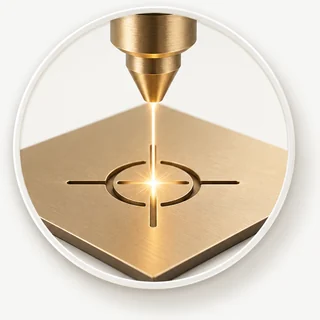
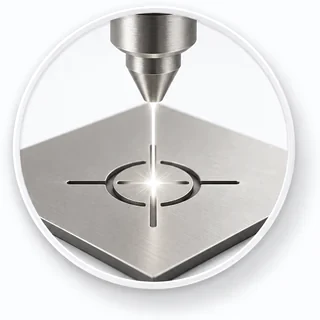
Shoshanas Rueckmeldung vom 26.08. eingearbeitet (6 Punkte)
1. Goldrahmen um das Set-Foto entfernt - er erweckte den falschen
   Eindruck eines gerahmten Bildes an der Wand. Das Foto steht jetzt
   schlicht, ohne Rahmen und ohne Schild.
2. Betreff der Sonderanfrage wieder wie von ihr vorgegeben:
   "בקשה להתאמה אישית – סדרת קרליבך" bzw. "Custom Order Inquiry –
   Rabbi Shlomo Carlebach Portrait Collection". Die Rueckfall-Zeile mit
   der sichtbaren Adresse unter den Knoepfen ist auf ihren Wunsch raus.
3. Prozessbild 5 (Farbgebung) um 90 Grad im Uhrzeigersinn gedreht.
4. Prozessschritt 4 zeigt jetzt ihr Laserbild statt des Platzhalter-
   Symbols; die Fussnote "לא תועד בזמן אמת" entfaellt damit.
5. Die beiden Icons, die das Material zeigen (Metallplatten, Laser),
   von Messing auf Aluminium umgefaerbt. Der Aufhaenger ist vorlaeufig
   ebenfalls entsaettigt - der dargestellte Typ passt weiterhin nicht zu
   ihrem Produkt, dafuer braucht es ein Foto von ihr.
6. Zeilenumbruch im Bestell-Band nach dem ersten Satz.

frameSheen zog mit an den Ort seiner Verwendung (Absende-Knopf), die
tote data-frame-Logik in ScrollFx ist entfernt.

diff --git a/lib/content.ts b/lib/content.ts
@@ -100,11 +100,6 @@ export interface LandingContent {
   customHref: string;
   /** Text des kleinen Sonderanfrage-Links unter den Kauf-Buttons */
   customLinkLabel: string;
-  /**
-   * Fallback fuer Besucher, bei denen kein Mailprogramm aufgeht: die
-   * Adresse steht sichtbar da und laesst sich abschreiben oder kopieren.
-   */
-  emailFallback: string;
   nav: {
     logoAlt: string;
     cta: string;
@@ -157,7 +152,7 @@ export interface LandingContent {
   /** Bestell-Band, erscheint zweimal: nach dem Prozess und nach "Ueber mich" */
   orderBand: {
     title: string;
-    text: string;
+    textLines: [string, string];
     cta: string;
     customCta: string;
   };
@@ -250,11 +245,10 @@ export const content: Record<Lang, LandingContent> = {
 אשמח לקבלת המשך פרטים לביצוע ההזמנה.`,
     ),
     customHref: mail(
-      "אהבתי את הדיוקן — מעוניינת לברר אפשרות להתאמה אישית",
+      "בקשה להתאמה אישית – סדרת קרליבך",
       "שלום שושנה,\n\nההתאמות שהייתי רוצה לבצע הן:\n\n",
     ),
     customLinkLabel: "מעוניינים בגודל אחר, בכמות או בהתאמה מיוחדת? פנו במייל לקבלת הצעת מחיר",
-    emailFallback: "לא נפתחה אצלכם תוכנת מייל? כתבו ישירות אל",
 
     nav: {
       logoAlt: "שושנה דרור | יודאיקה",
@@ -341,14 +335,17 @@ export const content: Record<Lang, LandingContent> = {
         { label: "צילום המקור", img: "/carlebach/process-1.webp", alt: "תצלום המקור" },
         { label: "עיצוב במחשב", img: "/carlebach/process-2.webp", alt: "עיצוב וקטורי במחשב" },
         { label: "תכנון החיתוך", img: "/carlebach/process-3.webp", alt: "תכנון נקודות החיתוך" },
-        { label: "חיתוך הלייזר", note: "* לא תועד בזמן אמת" },
+        { label: "חיתוך הלייזר", img: "/carlebach/process-4.webp", alt: "חיתוך לייזר של לוח מתכת" },
         { label: "צביעה", img: "/carlebach/process-5.webp", alt: "צביעת אבקה בתנור" },
         { label: "תלייה על הקיר", img: "/carlebach/process-6.webp", alt: "הדיוקן תלוי על הקיר" },
       ],
     },
     orderBand: {
       title: "הדיוקן שמתאים לחלל שלכם",
-      text: "בחרו את הדגם שמדבר אליכם, עם הפסוק או בלעדיו. למידה אחרת או להתאמה מיוחדת ניתן לפנות לקבלת הצעת מחיר.",
+      textLines: [
+        "בחרו את הדגם שמדבר אליכם, עם הפסוק או בלעדיו.",
+        "למידה אחרת או להתאמה מיוחדת ניתן לפנות לקבלת הצעת מחיר.",
+      ],
       cta: "לביצוע הזמנה",
       customCta: "בקשה להתאמה אישית",
     },
@@ -536,11 +533,10 @@ Shipping address / pickup:
 Please send me the next steps to complete the order.`,
     ),
     customHref: mail(
-      "I love the portrait — I'd like to explore a custom version",
+      "Custom Order Inquiry – Rabbi Shlomo Carlebach Portrait Collection",
       "Hello Shoshana,\n\nThe changes I have in mind are:\n\n",
     ),
     customLinkLabel: "Looking for another size or a custom variation? Tell me what you have in mind",
-    emailFallback: "Mail app didn't open? Write directly to",
 
     nav: {
       logoAlt: "Shoshana Dror | Judaica",
@@ -631,14 +627,17 @@ Please send me the next steps to complete the order.`,
         { label: "Source Photo", img: "/carlebach/process-1.webp", alt: "Source photograph" },
         { label: "Digital Design", img: "/carlebach/process-2.webp", alt: "Vector design on computer" },
         { label: "Cut Planning", img: "/carlebach/process-3.webp", alt: "Planning the cut points" },
-        { label: "Laser Cutting", note: "* Not documented in real time" },
+        { label: "Laser Cutting", img: "/carlebach/process-4.webp", alt: "Laser cutting a metal sheet" },
         { label: "Powder Coating", img: "/carlebach/process-5.webp", alt: "Oven-baked powder coating" },
         { label: "On the Wall", img: "/carlebach/process-6.webp", alt: "The portrait hanging on the wall" },
       ],
     },
     orderBand: {
       title: "Bring the Right Portrait into Your Space",
-      text: "Choose the design that speaks to you, with or without the verse. If you have another size or a custom version in mind, I would be glad to explore it with you.",
+      textLines: [
+        "Choose the design that speaks to you, with or without the verse.",
+        "If you have another size or a custom version in mind, I would be glad to explore it with you.",
+      ],
       cta: "Place an Order",
       customCta: "Ask About a Custom Version",
     },

diff --git a/app/globals.css b/app/globals.css
@@ -277,100 +277,9 @@ header.nav.scrolled { box-shadow: 0 12px 32px -20px rgba(46, 46, 46, 0.4); }
 .bundle-save { font-size: 0.82rem; color: #888; margin-bottom: 18px; }
 .buy-all { text-align: center; }
 
-/* ---------- Set-Foto als gerahmtes Bild ("Galerie-Moment") ----------
-   Das Foto bleibt jederzeit scharf und unbewegt; der Rahmen umschliesst
-   nur das Bild (.set-art), nicht das Schild darunter. Goldleiste mit
-   Gehrungsecken (conic-gradient) und Profilstufen, Passepartout mit
-   Falzlinie, Facette an der Bildoeffnung. Nach dem Aufbau laeuft alle
-   7 s ein feiner Lichtglanz ueber das Gold; ohne JavaScript ist der
-   fertige Rahmen sofort da. */
-.set-frame { max-width: 760px; margin: 26px auto 46px; text-align: center; }
-.set-art { position: relative; }
-.set-art::before {
-  content: "";
-  position: absolute;
-  inset: -28px;
-  z-index: 0;
-  border-radius: 2px;
-  background-image:
-    linear-gradient(115deg, rgba(255, 248, 228, 0) 44%, rgba(255, 248, 228, 0.5) 50%, rgba(255, 248, 228, 0) 56%),
-    conic-gradient(from 0deg,
-      #e8d7a2 0deg 56deg,
-      #b2975a 62deg 118deg,
-      #8f7740 124deg 236deg,
-      #cdb377 242deg 298deg,
-      #e8d7a2 304deg 360deg);
-  background-size: 260% 100%, 100% 100%;
-  background-position: 180% 0, 0 0;
-  background-repeat: no-repeat;
-  box-shadow:
-    0 46px 80px -38px rgba(46, 46, 46, 0.6),
-    0 18px 34px -24px rgba(46, 46, 46, 0.4),
-    inset 0 0 0 1px rgba(255, 255, 255, 0.5),
-    inset 0 0 0 2px rgba(112, 90, 42, 0.4),
-    inset 0 0 0 6px rgba(255, 255, 255, 0.16),
-    inset 0 0 0 7px rgba(112, 90, 42, 0.28);
-  transition: opacity 1.7s ease, transform 1.7s cubic-bezier(0.22, 1, 0.36, 1);
-}
-.set-art::after {
-  content: "";
-  position: absolute;
-  inset: -12px;
-  z-index: 0;
-  background: linear-gradient(180deg, #fbf9f4, #f5f2ea);
-  box-shadow:
-    0 0 0 1px rgba(90, 72, 30, 0.5),
-    inset 0 1px 4px rgba(46, 46, 46, 0.16),
-    inset 0 0 0 1px rgba(255, 255, 255, 0.6);
-  transition: opacity 1.7s ease;
-}
-.set-photo { position: relative; z-index: 1; aspect-ratio: 16 / 9; border-radius: 1px; }
-.set-photo::after {
-  content: "";
-  position: absolute;
-  inset: 0;
-  pointer-events: none;
-  box-shadow: inset 0 2px 8px rgba(46, 46, 46, 0.2), 0 0 0 1px rgba(90, 72, 30, 0.25);
-}
-.set-plaque {
-  display: inline-block;
-  margin-top: 52px;
-  padding: 9px 22px;
-  background: #fff;
-  border: 1px solid rgba(171, 145, 73, 0.45);
-  border-radius: 2px;
-  font-size: 0.82rem;
-  font-weight: 600;
-  letter-spacing: 0.6px;
-  color: #8a7238;
-  box-shadow: 0 10px 22px -14px rgba(46, 46, 46, 0.35);
-  transition: opacity 1s ease 0.6s, transform 1s cubic-bezier(0.22, 1, 0.36, 1) 0.6s;
-}
-.fx [data-frame]:not(.framed) .set-art::before { opacity: 0; transform: scale(1.012); }
-.fx [data-frame]:not(.framed) .set-art::after { opacity: 0; }
-.fx [data-frame]:not(.framed) .set-plaque { opacity: 0; transform: translateY(10px); }
-@keyframes frameSheen {
-  0% { background-position: 180% 0, 0 0; }
-  32% { background-position: -80% 0, 0 0; }
-  100% { background-position: -80% 0, 0 0; }
-}
-.fx [data-frame].framed .set-art::before { animation: frameSheen 7s ease-in-out 1.9s infinite; }
-@media (max-width: 600px) {
-  .set-art::before { inset: -16px; }
-  .set-art::after { inset: -7px; }
-  .set-plaque { margin-top: 34px; font-size: 0.76rem; padding: 8px 16px; }
-}
-.btn-wide {
-  display: inline-block;
-  background: var(--charcoal-deep);
-  color: #fff;
-  padding: 18px 52px;
-  border-radius: 2px;
-  font-weight: 600;
-  font-size: 1rem;
-  transition: background 0.45s ease;
-}
-.btn-wide:hover { background: var(--gold); }
+/* Set-Foto: schlicht, ohne Rahmen - der Rahmen erweckte den falschen
+   Eindruck eines gerahmten Bildes an der Wand (Rueckmeldung Shoshana). */
+.set-photo { max-width: 760px; margin: 0 auto 44px; aspect-ratio: 16 / 9; }
 
 /* ================= SCREEN 4 — PROCESS ================= */
 .process { padding: 110px 0; background: var(--charcoal-deep); color: #fff; text-align: center; }
@@ -780,14 +689,3 @@ footer { padding: 36px 0; background: var(--charcoal-deep); border-top: 1px soli
   .custom-order-link a { width: 100%; max-width: 330px; }
 }
 
-/* Sichtbare E-Mail-Adresse als Rueckfallebene, wenn kein Mailprogramm oeffnet */
-.mail-fallback { margin-top: 18px; font-size: 0.85rem; color: #7d7970; text-align: center; }
-.mail-fallback a {
-  color: var(--gold);
-  font-weight: 600;
-  border-bottom: 1px solid rgba(171, 145, 73, 0.45);
-  padding-bottom: 1px;
-  transition: color 0.4s ease, border-color 0.4s ease;
-  unicode-bidi: plaintext;
-}
-.mail-fallback a:hover { color: #8a7238; border-color: #8a7238; }

diff --git a/components/Landing.tsx b/components/Landing.tsx
@@ -1,7 +1,7 @@
 import Link from "next/link";
 import { OrderForm } from "@/components/OrderForm";
 import { ScrollFx } from "@/components/ScrollFx";
-import { EMAIL, content, type Lang } from "@/lib/content";
+import { content, type Lang } from "@/lib/content";
 
 /* 3D-Gold-Icons der "Was erhalten Sie"-Sektion (Reihenfolge = get.items) */
 const getImages = [
@@ -43,25 +43,21 @@ export function Landing({ lang }: { lang: Lang }) {
     </div>
   );
 
-  /* Sichtbare Adresse fuer alle, bei denen kein Mailprogramm aufgeht */
-  const mailFallback = (
-    <p className="mail-fallback">
-      {t.emailFallback}{" "}
-      <a href={`mailto:${EMAIL}`}>{EMAIL}</a>
-    </p>
-  );
 
   /* Bestell-Band, erscheint zweimal auf der Seite */
   const orderBand = (
     <section className="order-band">
       <div className="wrap order-band-inner" data-reveal>
         <h2>{t.orderBand.title}</h2>
-        <p>{t.orderBand.text}</p>
+        <p>
+          {t.orderBand.textLines[0]}
+          <br />
+          {t.orderBand.textLines[1]}
+        </p>
         <div className="order-band-actions">
           <a href="#order" className="btn-wide">{t.orderBand.cta}</a>
           <a href={t.customHref} className="custom-order-button">{t.orderBand.customCta}</a>
         </div>
-        {mailFallback}
       </div>
     </section>
   );
@@ -181,12 +177,8 @@ export function Landing({ lang }: { lang: Lang }) {
               ))}
             </div>
 
-            <div className="set-frame" data-reveal data-frame>
-              <div className="set-art">
-                <div className="ph set-photo">
-                  <img src="/carlebach/set.webp" alt={t.choose.setAlt} loading="lazy" />
-                </div>
-              </div>
+            <div className="ph set-photo" data-reveal>
+              <img src="/carlebach/set.webp" alt={t.choose.setAlt} loading="lazy" />
             </div>
             <div className="buy-all" data-reveal>
               <div className="bundle-price">{t.choose.bundle.price}</div>
@@ -386,7 +378,6 @@ export function Landing({ lang }: { lang: Lang }) {
                 <span>{t.contact.label}</span>
               </a>
             </div>
-            {mailFallback}
           </div>
         </section>
 

diff --git a/components/ScrollFx.tsx b/components/ScrollFx.tsx
@@ -20,8 +20,6 @@ export function ScrollFx() {
         for (const entry of entries) {
           if (entry.isIntersecting) {
             entry.target.classList.add("is-visible");
-            // Galerie-Moment: kurz nach dem Erscheinen entpuppt sich das
-            // Set-Foto als gerahmtes Bild an der Wand
             // Grosse Zahl im Zedaka-Band zaehlt hoch, wenn sie ins Bild kommt
             entry.target.querySelectorAll<HTMLElement>("[data-count-to]").forEach((el) => {
               const target = Number(el.dataset.countTo ?? "0");
@@ -36,9 +34,6 @@ export function ScrollFx() {
               requestAnimationFrame(tick);
             });
 
-            if (entry.target.hasAttribute("data-frame")) {
-              timers.push(window.setTimeout(() => entry.target.classList.add("framed"), 900));
-            }
             io.unobserve(entry.target);
           }
         }

diff --git a/app/order-form.css b/app/order-form.css
@@ -191,6 +191,11 @@
   transition: box-shadow 0.5s ease, transform 0.5s ease;
 }
 .of-submit:hover { transform: translateY(-2px); box-shadow: 0 22px 38px -18px rgba(46, 46, 46, 0.5); }
+@keyframes frameSheen {
+  0% { background-position: 180% 0, 0 0; }
+  32% { background-position: -80% 0, 0 0; }
+  100% { background-position: -80% 0, 0 0; }
+}
 .of-submit.go { animation: frameSheen 1.1s ease-in-out infinite; }
 
 .of-alt { text-align: center; font-size: 0.85rem; color: #7d7970; margin-top: 16px; }
